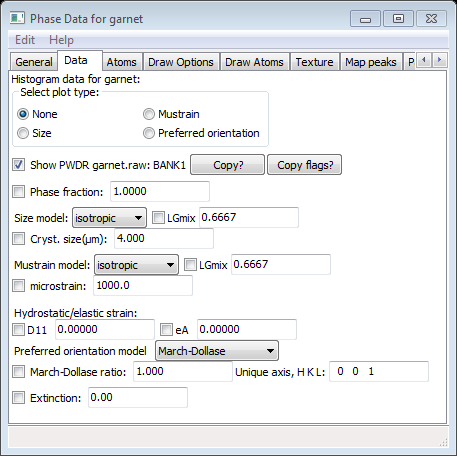
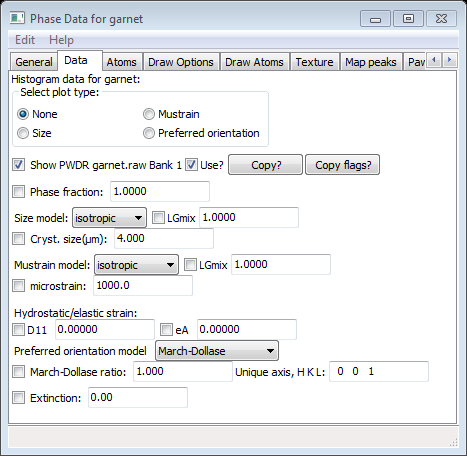
update garnet tutorial to reflect new options fix backbone plotting for multichain proteins finish 1st attempt at strain tensor refinement - but not right

diff --git a/trunk/GSASIIimage.py b/trunk/GSASIIimage.py
@@ -12,6 +12,7 @@ import wx
 import time
 import numpy as np
 import numpy.linalg as nl
+from scipy.optimize import leastsq
 import copy
 import GSASIIpath
 GSASIIpath.SetVersionNumber("$Revision$")
@@ -127,7 +128,6 @@ def FitEllipse(ring):
     return err,makeParmsEllipse(bb)
     
 def FitDetector(rings,p0,wave):
-    from scipy.optimize import leastsq
         
     def CalibPrint(ValSig):
         print 'Image Parameters:'
@@ -751,7 +751,9 @@ def FitStrSta(Image,StrSta,Controls,Masks):
     
 #    print 'Masks:',Masks
     StaControls = copy.deepcopy(Controls)
-    StaControls['distance'] += StrSta['Sample z']*cosd(StrSta['Sample phi'])
+    phi = StrSta['Sample phi']
+    wave = Controls['wavelength']
+    StaControls['distance'] += StrSta['Sample z']*cosd(phi)
     pixSize = StaControls['pixelSize']
     scalex = 1000./pixSize[0]
     scaley = 1000./pixSize[1]
@@ -768,11 +770,13 @@ def FitStrSta(Image,StrSta,Controls,Masks):
             rings = np.concatenate((rings,Ring),axis=1)
         else:
             rings = np.array(Ring)
-        
-        
+    E = StrSta['strain']
+    p0 = [E[0][0],E[1][1],E[2][2],E[0][1],E[0][2],E[1][2]]
+    E = FitStrain(rings,p0,wave,phi)
+    StrSta['strain'] = E
 
 def calcFij(omg,phi,azm,th):
-    ''' Uses parameters as defined by Bob He & Kingsley Smity, Adv. in X-Ray Anal. 41, 501 (1997)
+    ''' Uses parameters as defined by Bob He & Kingsley Smith, Adv. in X-Ray Anal. 41, 501 (1997)
     omg: his omega = sample omega rotation; 0 when incident beam || sample surface, 90 
             when perp. to sample surface
     phi: his phi = sample phi rotation; usually = 0, axis rotates with omg.
@@ -790,8 +794,7 @@ def calcFij(omg,phi,azm,th):
         [c*d,c*e,c**2]])
     return -Fij*nptand(th)
 
-def FitStrain(rings,p0,wave):
-    from scipy.optimize import leastsq
+def FitStrain(rings,p0,wave,phi):
 
     def StrainPrint(ValSig):
         print 'Strain tensor:'
@@ -809,8 +812,25 @@ def FitStrain(rings,p0,wave):
         print ptstr
         print sigstr
         
-    def strainCalc(E,xyd,wave,phi):
+    def strainCalc(p,xyd,wave,phi):
+#        E = np.array([[p[0],p[3],p[4]],[p[3],p[1],p[5]],[p[4],p[5],p[2]]])
+        E = np.array([[p[0],0,0],[0,p[1],0],[0,0,0]])
         th,azm,dsp = xyd
         th0 = npasind(wave/(2.*dsp))
-        dth = 180.*np.sum(StrSta['strain']*calcFij(phi,0.,azm,th))/(np.pi*1.e6) #in degrees
+        dth = 180.*np.sum(E*calcFij(phi,0.,azm,th).T)/(np.pi*1.e6) #in degrees & microstrain units
+        th0 += dth
+        return (th-th0)**2
+        
+    names = ['e11','e22','e33','e12','e13','e23']
+    fmt = ['%12.2f','%12.2f','%12.2f','%12.2f','%12.2f','%12.5f']
+    p1 = [p0[0],p0[1]]   
+    result = leastsq(strainCalc,p1,args=(rings,wave,phi),full_output=True)
+    vals = list(result[0])
+    chi = np.sqrt(np.sum(strainCalc(result[0],rings,wave,phi)**2))
+    sig = list(chi*np.sqrt(np.diag(result[1])))
+    ValSig = zip(names,fmt,vals,sig)
+    StrainPrint(ValSig)
+#    return np.array([[vals[0],vals[3],vals[4]],[vals[3],vals[1],vals[5]],[vals[4],vals[5],vals[2]]])
+    return np.array([[vals[0],0,0],[0,vals[1],0],[0,0,0]])
+    
         

diff --git a/trunk/GSASIIplot.py b/trunk/GSASIIplot.py
@@ -2902,7 +2902,7 @@ def PlotStructure(G2frame,data):
 #            else:
 #                G2frame.G2plotNB.status.SetStatusText('test point %.4f,%.4f,%.4f'%(x,y,z),1)            
             RenderUnitVectors(x,y,z)
-        Backbone = []
+        Backbones = {}
         BackboneColor = []
         time0 = time.time()
 #        glEnable(GL_BLEND)
@@ -2977,7 +2977,9 @@ def PlotStructure(G2frame,data):
                 RenderPolyhedra(x,y,z,Faces,color)
             elif atom[cs] == 'backbone':
                 if atom[ct-1].split()[0] in ['C','N']:
-                    Backbone.append(list(np.inner(Amat,np.array([x,y,z]))))
+                    if atom[2] not in Backbones:
+                        Backbones[atom[2]] = []
+                    Backbones[atom[2]].append(list(np.inner(Amat,np.array([x,y,z]))))
                     BackboneColor.append(list(color))
                     
             if atom[cs+1] == 'type':
@@ -3001,8 +3003,10 @@ def PlotStructure(G2frame,data):
                     RenderMapPeak(x,y,z,Gr)
                 else:
                     RenderMapPeak(x,y,z,Wt)
-        if Backbone:
-            RenderBackbone(Backbone,BackboneColor,bondR)
+        if Backbones:
+            for chain in Backbones:
+                Backbone = Backbones[chain]
+                RenderBackbone(Backbone,BackboneColor,bondR)
 #        print time.time()-time0
         Page.canvas.SwapBuffers()
        

diff --git a/trunk/GSASIIphsGUI.py b/trunk/GSASIIphsGUI.py
@@ -716,6 +716,7 @@ def UpdatePhaseData(G2frame,Item,data,oldPage):
         
         def DenSizer():
             
+            mass = G2mth.getMass(generalData)
             density,mattCoeff = G2mth.getDensity(generalData)
             denSizer = wx.BoxSizer(wx.HORIZONTAL)
             denSizer.Add(wx.StaticText(dataDisplay,-1,' Density: '),0,wx.ALIGN_CENTER_VERTICAL)
